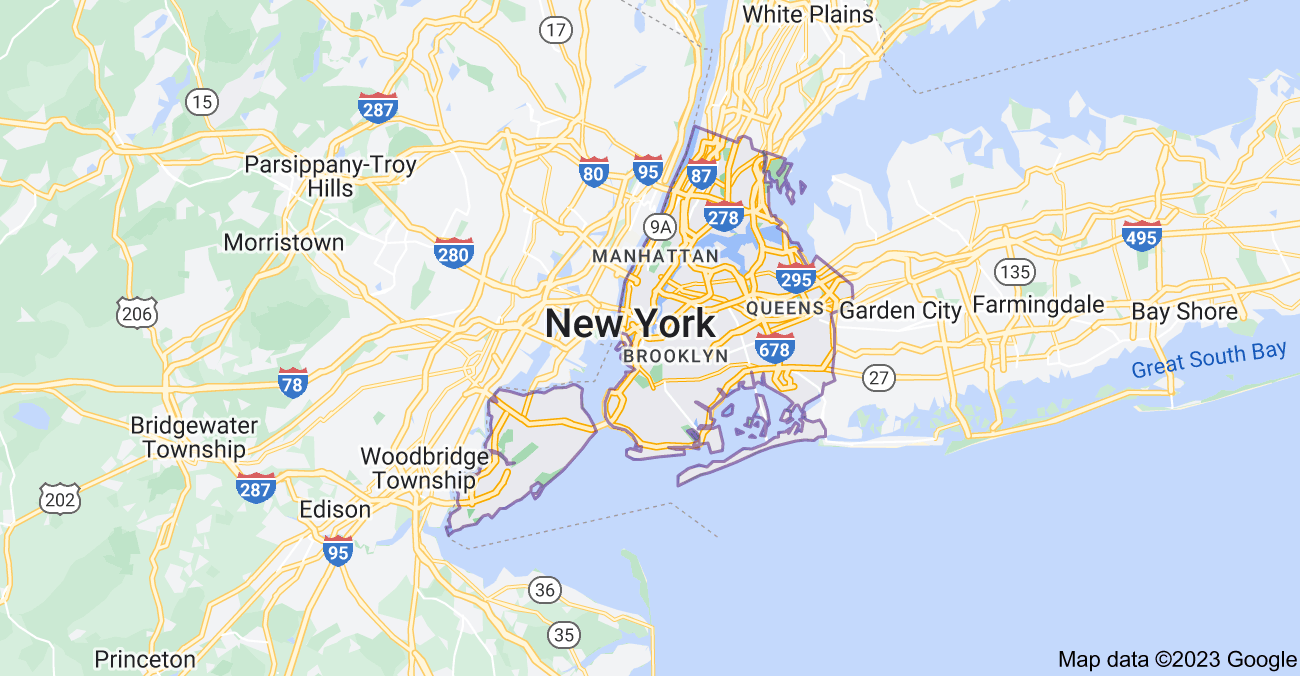
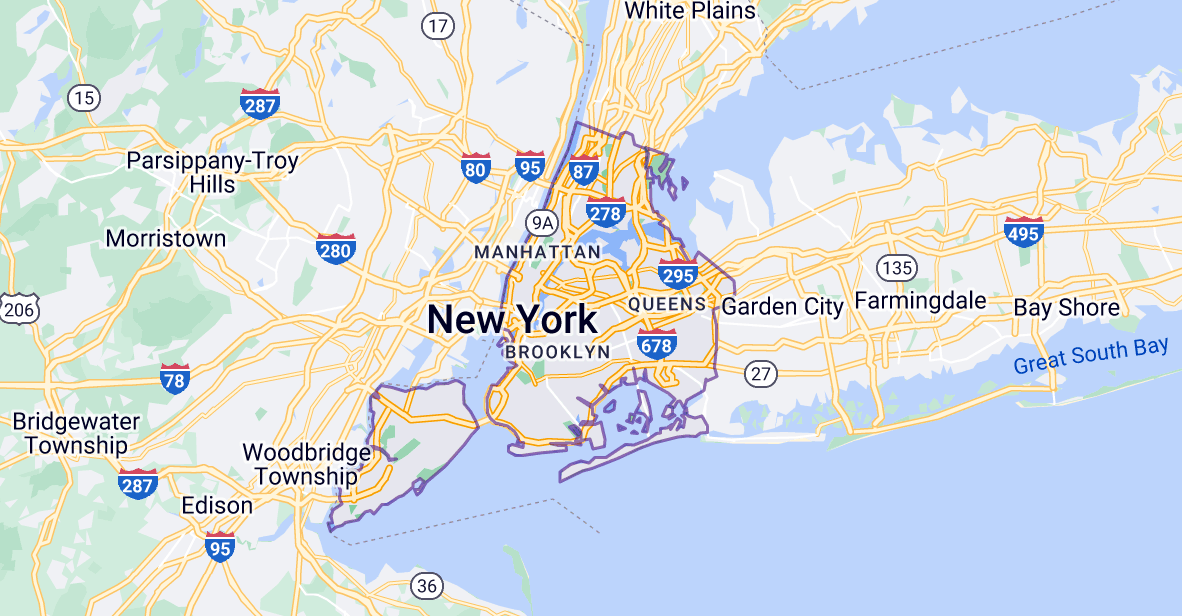
fixed contacts form

diff --git a/css/contacts.css b/css/contacts.css
@@ -40,11 +40,11 @@
 .header_contacts {
     background: url(../img/background-map.png);
     background-attachment: scroll;
-    background-position: 65% 35%;
-    background-size: 100%;
+    background-position: 45% 55%;
+    background-size: cover;
     height: 320px;
     display: flex;
-    flex-direction: column;
+    flex-direction: row;
     justify-content: flex-end;
 }
 @media (min-width: 600px) {
@@ -56,4 +56,46 @@
     .header_contacts {
         min-height: 700px;
     }
+}
+
+.contacts_banner {
+    background-color: white;
+    width: 240px;
+    height: 120px;
+}
+@media (min-width: 900px) {
+    .contacts_banner {
+        width: 450px;
+        height: 800px;
+    }
+}
+.contacts-title {
+    font-size: 40px;
+    text-align: center;
+    margin-bottom: 20%;
+    margin-top: 20%;
+}
+.contacts_banner-subtitle {
+    text-align: center;
+    font-size: 28px;
+    line-height: 60px;
+}
+b {
+    border-bottom: 3px solid rgba(239, 190, 101, 1);
+    padding: 0 0 3px;
+}
+.contacts-content-title {
+    font-size: 36px;
+    text-align: center;
+    margin-top: 5%;
+}
+.contacts-subtitle {
+    font-size: 28px;
+    text-align: center;
+    line-height: 50px;
+    margin-top: 5%;
+}
+input {
+    width: 80%;
+    margin-left: 10%;
 }

diff --git a/contacts.html b/contacts.html
@@ -28,7 +28,7 @@
             <div class="contacts_banner">
                 <div class="contacts_banner-title">
                     <h3 class="contacts-title">
-                        Contacts
+                        Co<b>ntac</b>ts
                     </h3>
                     <p class="contacts_banner-subtitle">
                         929-355-1543
@@ -39,12 +39,12 @@
             </div>
         </section>
     <main>
-        <section class="contacts_content">
-            <div class="contacts_content-title">
-                <h2 class="contacts-title">
-                    Contact Us
+        <section class="contacts">
+            <div class="contacts_content">
+                <h2 class="contacts-content-title">
+                    Co<b>ntact </b>Us
                 </h2>
-                <p class="contscts-subtitle">
+                <p class="contacts-subtitle">
                     For any questions or if you want to schedule an appointment please 
                     call 929-355-1543 or fill out the following form. 
                     <br>We will get back to you shortly.
